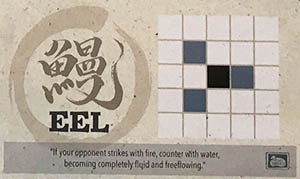
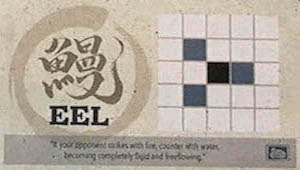
resize des images+import, avancement interface, bloquee sur TabCartePartie(affichage qui merde)

diff --git a/src/projetonitama_forssant_sarinena/FenetreDeJeu.java b/src/projetonitama_forssant_sarinena/FenetreDeJeu.java
@@ -111,19 +111,30 @@ public class FenetreDeJeu extends javax.swing.JFrame {
             for (int j = 0; j < 5; j++) {
                 CaseGraphique case_graphique = new CaseGraphique(PlateauJeu.Grille[i][j]);
                 grille_jeu.add(case_graphique);
+
                 
-        /*CarteGraphique carte_graphiquej11 = new CarteGraphique(TabCartePartie[0]);
-        carte1_j1 = carte_graphiquej11;
-                CarteGraphique carte_graphiquej12 = new CarteGraphique(TabCartePartie[1]);
-        carte2_j1 = carte_graphiquej12;
-                CarteGraphique carte_graphiquej21 = new CarteGraphique(TabCartePartie[2]);
-        carte1_j2 = carte_graphiquej21;
-                CarteGraphique carte_graphiquej22 = new CarteGraphique(TabCartePartie[3]);
-        carte2_j2 = carte_graphiquej22;
-                CarteGraphique cartetransition = new CarteGraphique(TabCartePartie[4]);
-        carte_transition = cartetransition;*/
+                // tabCarte ne va pas et plante l'affichage, carte specifique interface ok mais pas d'image
+                /*CarteGraphique carte_graphique1_j1 = new CarteGraphique(CarteMante);
+                carte1_j1.add(carte_graphique1_j1);
+                CarteGraphique carte_graphique2_j1 = new CarteGraphique(CarteDragon);
+                carte2_j1.add(carte_graphique2_j1);
+                CarteGraphique carte_graphique1_j2 = new CarteGraphique(TabCartePartie[2]);
+                carte1_j2.add(carte_graphique1_j2);
+                CarteGraphique carte_graphique2_j2 = new CarteGraphique(TabCartePartie[3]);
+                carte2_j2.add(carte_graphique2_j2);*/
+                CarteGraphique cartetransition = new CarteGraphique(CarteMante);
+                carte_transition.add(cartetransition);
                 
-                
+                cartetransition.addActionListener(new java.awt.event.ActionListener() { // ActionListener permet d'interagir avec la fenêtre graphique de jeu (cliquer sur les cases graphiques)
+                    public void actionPerformed(java.awt.event.ActionEvent evt) {
+                        Carte C = cartetransition.CarteAssociee;
+                        if (C.CarteCourante == null) {
+                            return;
+                        }
+
+                    }
+                });
+
                 case_graphique.addActionListener(new java.awt.event.ActionListener() { // ActionListener permet d'interagir avec la fenêtre graphique de jeu (cliquer sur les cases graphiques)
                     public void actionPerformed(java.awt.event.ActionEvent evt) {
                         Case c = case_graphique.CaseAssociee;
@@ -169,19 +180,21 @@ public class FenetreDeJeu extends javax.swing.JFrame {
 
                     }
                 });
-                grille_jeu.add(case_graphique); 
+                //grille_jeu.add(case_graphique);
             }
+
         }
+
     }
-    
-        void initialiserPartie() {
+
+    void initialiserPartie() {
         // vider Plateau OK
         // Entrée des joueurs et affectation dans tableau OK
         // Sélection des 5 cartes déplacements OK
         // Attribution des couleurs OK
         // Tirage et attribution des cartes OK
-        // Determine qui est le premier joueur
-        // Placer Pions (Rouge en bas/bleu en haut)
+        // Determine qui est le premier joueur OK
+        // Placer Pions (Rouge en bas/bleu en haut)OK
 
         // On vide le plateau
         PlateauJeu.ViderPlateau();
@@ -219,8 +232,7 @@ public class FenetreDeJeu extends javax.swing.JFrame {
         }
 
         PlateauJeu.AfficherPlateauSurConsole();
-        
-        
+
         // affichage sur console ----- suivi du bon déroulement du jeu
         System.out.println(Joueur1.NomJoueur + " possède les cartes " + Joueur1.CarteEnMain[0].NomCarte + " et " + Joueur1.CarteEnMain[1].NomCarte);
         System.out.println(Joueur2.NomJoueur + " possède les cartes " + Joueur2.CarteEnMain[0].NomCarte + " et " + Joueur2.CarteEnMain[1].NomCarte);
@@ -237,22 +249,21 @@ public class FenetreDeJeu extends javax.swing.JFrame {
         lbl_joueur_courant.setText(JoueurCourant.NomJoueur);
 
         //PlateauJeu.AfficherPlateauSurConsole();
-        
-        Tour();
+        //Tour();
     }
-        
-        void Tour() { // équivalent de notre méthode Menu() achevée
+
+    void Tour() { // équivalent de notre méthode Menu() achevée
         System.out.println("Tour de " + JoueurCourant.NomJoueur);
         System.out.println("Choisissez une carte déplacement");
         String ChoixCarte;
         Scanner sc = new Scanner(System.in);
         ChoixCarte = sc.nextLine();
-        while (!ChoixCarte.equals(JoueurCourant.CarteEnMain[0].NomCarte) && !ChoixCarte.equals(JoueurCourant.CarteEnMain[1].NomCarte)){
-             System.out.println("Carte invalide. Réessayer.");
-             ChoixCarte = sc.nextLine();
+        while (!ChoixCarte.equals(JoueurCourant.CarteEnMain[0].NomCarte) && !ChoixCarte.equals(JoueurCourant.CarteEnMain[1].NomCarte)) {
+            System.out.println("Carte invalide. Réessayer.");
+            ChoixCarte = sc.nextLine();
         }
         System.out.println("la carte déplacement choisie est " + ChoixCarte);
-        
+
         /*System.out.println("Choisissez un pion à déplacer");
         int c;
         int l;
@@ -303,8 +314,10 @@ public class FenetreDeJeu extends javax.swing.JFrame {
         } else {
             return false;
         }*/
+    
+    
     void AttribuerCouleursAuxJoueurs() {
-        Random alea = new Random(); // attribution des joueurs au hasard
+        Random alea = new Random(); // attribution des couleurs aux joueurs au hasard
         boolean ChoixJoueur;
         ChoixJoueur = alea.nextBoolean();
         if (ChoixJoueur == true) {
@@ -369,11 +382,11 @@ public class FenetreDeJeu extends javax.swing.JFrame {
         textemessage = new javax.swing.JTextArea();
         btn_rejouer = new javax.swing.JButton();
         btn_quitter = new javax.swing.JButton();
-        carte2_j1 = new javax.swing.JButton();
-        carte_transition = new javax.swing.JButton();
-        carte1_j2 = new javax.swing.JButton();
-        carte2_j2 = new javax.swing.JButton();
-        carte1_j1 = new javax.swing.JButton();
+        carte1_j1 = new javax.swing.JPanel();
+        carte2_j1 = new javax.swing.JPanel();
+        carte_transition = new javax.swing.JPanel();
+        carte1_j2 = new javax.swing.JPanel();
+        carte2_j2 = new javax.swing.JPanel();
 
         setDefaultCloseOperation(javax.swing.WindowConstants.EXIT_ON_CLOSE);
         getContentPane().setLayout(new org.netbeans.lib.awtextra.AbsoluteLayout());
@@ -507,50 +520,25 @@ public class FenetreDeJeu extends javax.swing.JFrame {
 
         getContentPane().add(infos_partie, new org.netbeans.lib.awtextra.AbsoluteConstraints(1090, 540, 300, 250));
 
-        carte2_j1.setBackground(new java.awt.Color(204, 102, 0));
-        carte2_j1.setForeground(new java.awt.Color(255, 255, 255));
-        carte2_j1.addActionListener(new java.awt.event.ActionListener() {
-            public void actionPerformed(java.awt.event.ActionEvent evt) {
-                carte2_j1ActionPerformed(evt);
-            }
-        });
-        getContentPane().add(carte2_j1, new org.netbeans.lib.awtextra.AbsoluteConstraints(660, 10, 300, 170));
+        carte1_j1.setBackground(new java.awt.Color(153, 51, 0));
+        carte1_j1.setLayout(new java.awt.GridLayout(1, 1));
+        getContentPane().add(carte1_j1, new org.netbeans.lib.awtextra.AbsoluteConstraints(230, 10, 300, 170));
 
-        carte_transition.setBackground(new java.awt.Color(204, 102, 0));
-        carte_transition.setForeground(new java.awt.Color(255, 255, 255));
-        carte_transition.addActionListener(new java.awt.event.ActionListener() {
-            public void actionPerformed(java.awt.event.ActionEvent evt) {
-                carte_transitionActionPerformed(evt);
-            }
-        });
-        getContentPane().add(carte_transition, new org.netbeans.lib.awtextra.AbsoluteConstraints(30, 340, 300, 170));
+        carte2_j1.setBackground(new java.awt.Color(153, 51, 0));
+        carte2_j1.setLayout(new java.awt.GridLayout(1, 1));
+        getContentPane().add(carte2_j1, new org.netbeans.lib.awtextra.AbsoluteConstraints(700, 10, 300, 170));
 
-        carte1_j2.setBackground(new java.awt.Color(204, 102, 0));
-        carte1_j2.setForeground(new java.awt.Color(255, 255, 255));
-        carte1_j2.addActionListener(new java.awt.event.ActionListener() {
-            public void actionPerformed(java.awt.event.ActionEvent evt) {
-                carte1_j2ActionPerformed(evt);
-            }
-        });
-        getContentPane().add(carte1_j2, new org.netbeans.lib.awtextra.AbsoluteConstraints(270, 680, 300, 170));
+        carte_transition.setBackground(new java.awt.Color(153, 51, 0));
+        carte_transition.setLayout(new java.awt.GridLayout(1, 1));
+        getContentPane().add(carte_transition, new org.netbeans.lib.awtextra.AbsoluteConstraints(30, 350, 300, 170));
 
-        carte2_j2.setBackground(new java.awt.Color(204, 102, 0));
-        carte2_j2.setForeground(new java.awt.Color(255, 255, 255));
-        carte2_j2.addActionListener(new java.awt.event.ActionListener() {
-            public void actionPerformed(java.awt.event.ActionEvent evt) {
-                carte2_j2ActionPerformed(evt);
-            }
-        });
-        getContentPane().add(carte2_j2, new org.netbeans.lib.awtextra.AbsoluteConstraints(670, 680, 300, 170));
+        carte1_j2.setBackground(new java.awt.Color(153, 51, 0));
+        carte1_j2.setLayout(new java.awt.GridLayout(1, 1));
+        getContentPane().add(carte1_j2, new org.netbeans.lib.awtextra.AbsoluteConstraints(230, 690, 300, 170));
 
-        carte1_j1.setBackground(new java.awt.Color(204, 102, 0));
-        carte1_j1.setForeground(new java.awt.Color(255, 255, 255));
-        carte1_j1.addActionListener(new java.awt.event.ActionListener() {
-            public void actionPerformed(java.awt.event.ActionEvent evt) {
-                carte1_j1ActionPerformed(evt);
-            }
-        });
-        getContentPane().add(carte1_j1, new org.netbeans.lib.awtextra.AbsoluteConstraints(250, 10, 300, 170));
+        carte2_j2.setBackground(new java.awt.Color(153, 51, 0));
+        carte2_j2.setLayout(new java.awt.GridLayout(1, 1));
+        getContentPane().add(carte2_j2, new org.netbeans.lib.awtextra.AbsoluteConstraints(700, 690, 300, 170));
 
         setBounds(0, 0, 1416, 893);
     }// </editor-fold>//GEN-END:initComponents
@@ -577,31 +565,6 @@ public class FenetreDeJeu extends javax.swing.JFrame {
         // TODO add your handling code here:
     }//GEN-LAST:event_nomjoueur2ActionPerformed
 
-    private void carte_transitionActionPerformed(java.awt.event.ActionEvent evt) {//GEN-FIRST:event_carte_transitionActionPerformed
-        // TODO add your handling code here:
-        //JoueurSuivant(); 
-    }//GEN-LAST:event_carte_transitionActionPerformed
-
-    private void carte1_j2ActionPerformed(java.awt.event.ActionEvent evt) {//GEN-FIRST:event_carte1_j2ActionPerformed
-        // TODO add your handling code here:
-        //JoueurSuivant();
-    }//GEN-LAST:event_carte1_j2ActionPerformed
-
-    private void carte2_j2ActionPerformed(java.awt.event.ActionEvent evt) {//GEN-FIRST:event_carte2_j2ActionPerformed
-        // TODO add your handling code here:
-        //JoueurSuivant();
-    }//GEN-LAST:event_carte2_j2ActionPerformed
-
-    private void carte1_j1ActionPerformed(java.awt.event.ActionEvent evt) {//GEN-FIRST:event_carte1_j1ActionPerformed
-        // TODO add your handling code here
-        // JoueurSuivant();
-    }//GEN-LAST:event_carte1_j1ActionPerformed
-
-    private void carte2_j1ActionPerformed(java.awt.event.ActionEvent evt) {//GEN-FIRST:event_carte2_j1ActionPerformed
-        // TODO add your handling code here:
-        //JoueurSuivant();
-    }//GEN-LAST:event_carte2_j1ActionPerformed
-
     private void btn_rejouerActionPerformed(java.awt.event.ActionEvent evt) {//GEN-FIRST:event_btn_rejouerActionPerformed
         infos_joueurs.setVisible(true);
         infos_partie.setVisible(true);
@@ -611,7 +574,7 @@ public class FenetreDeJeu extends javax.swing.JFrame {
         carte1_j1.setEnabled(true);
         carte2_j1.setEnabled(true);
         carte1_j2.setEnabled(true);
-        carte2_j2.setEnabled(true);
+        carte2_j1.setEnabled(true);
         textemessage.setText(" "); // efface le dernier message affiche dans le panneau infos partie
     }//GEN-LAST:event_btn_rejouerActionPerformed
 
@@ -656,16 +619,15 @@ public class FenetreDeJeu extends javax.swing.JFrame {
     }
 
 
-
     // Variables declaration - do not modify//GEN-BEGIN:variables
     private javax.swing.JButton btn_demarrer;
     private javax.swing.JButton btn_quitter;
     private javax.swing.JButton btn_rejouer;
-    private javax.swing.JButton carte1_j1;
-    private javax.swing.JButton carte1_j2;
-    private javax.swing.JButton carte2_j1;
-    private javax.swing.JButton carte2_j2;
-    private javax.swing.JButton carte_transition;
+    private javax.swing.JPanel carte1_j1;
+    private javax.swing.JPanel carte1_j2;
+    private javax.swing.JPanel carte2_j1;
+    private javax.swing.JPanel carte2_j2;
+    private javax.swing.JPanel carte_transition;
     private javax.swing.JPanel debuter_partie;
     private javax.swing.JPanel grille_jeu;
     private javax.swing.JPanel infos_joueurs;

diff --git a/src/projetonitama_forssant_sarinena/Carte.java b/src/projetonitama_forssant_sarinena/Carte.java
@@ -14,6 +14,7 @@ public class Carte {
     String NomCarte;
     int Matrice[][];
     String CouleurCarte;
+    Carte CarteCourante;
 
     public Carte(String unNom, String uneCouleur, int MatCoord[][]){ // constructeur qui passe le nom en paramètre et initialise les attributs
         NomCarte = unNom;
